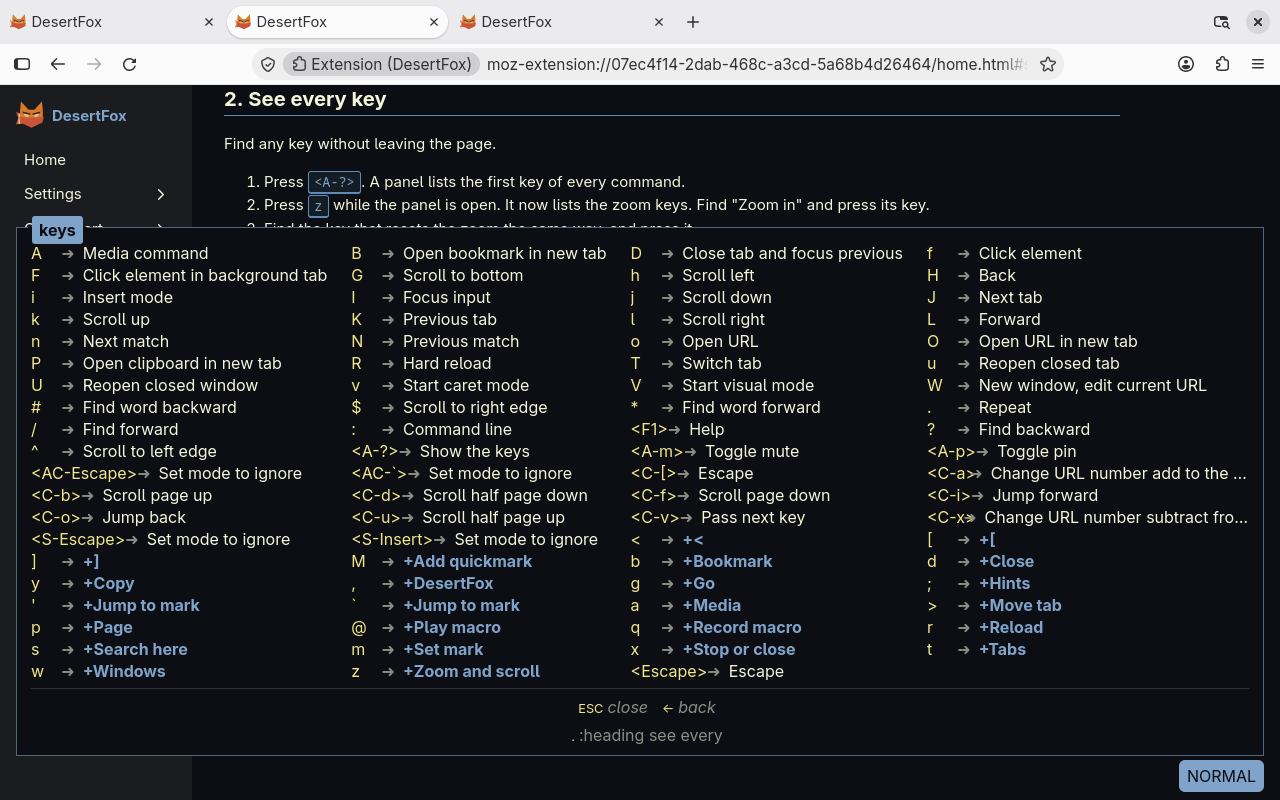
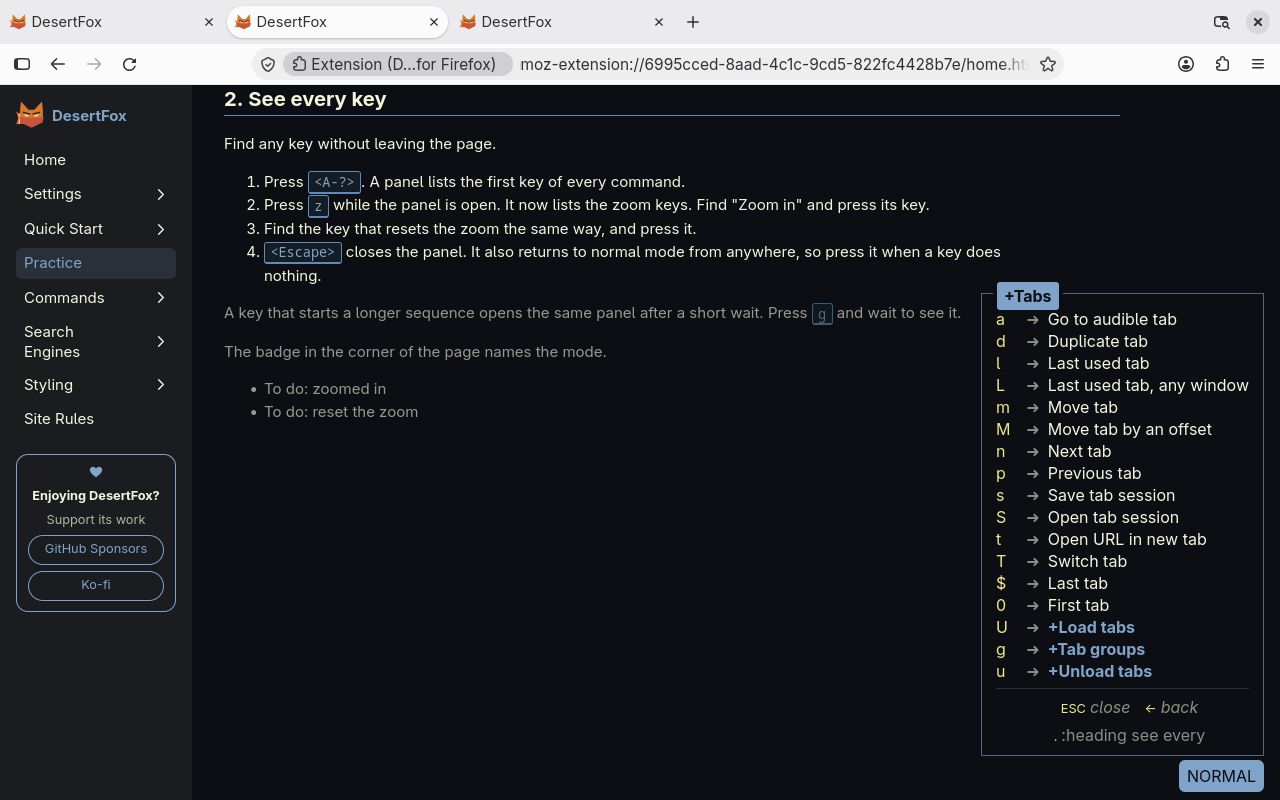
docs(demo): show the t panel in the which-key still, list drag.gif
The which-key still showed the full list from Alt+?, which is long and
hard to read in a README. It now shows the panel of the t prefix, the
tab actions with their keys. The film gains the t press and its panel
after the Alt+? scene, so demo.gif is a few seconds longer. The README
for the demo names drag.gif and its 2 MB cap.

diff --git a/test/key/README.md b/test/key/README.md
@@ -28,7 +28,7 @@ A full run takes about 34 s on 8 shards. It needs labwc, Hyprland, dbus-daemon a
 
 ## Demo
 
-`just readme-demo` runs `demo.mjs`: one key-test session that plays the seven shots in `demo_scenes.mjs` (shot 4 also drags a card across a board) with default settings and keys. Shot 1 is the new tab page, and the later shots run on the help Practice page in dark mode, with hint labels read at run time. The session floats the Firefox window to 1280x800, wf-recorder films that area and grim takes the stills. ffmpeg burns a corner overlay of the key presses into the film and makes `docs/images/demo.gif` from it, lowering the frame rate and then the width until the file is under 5 MB. The stills (hints, drag, which-key, command-line, theme-switch) land beside it, copied out only when the whole run worked. Set `DEMO_OUT_DIR` to write elsewhere. It needs wf-recorder, ffmpeg and grim, and it is not a piece of the key test run.
+`just readme-demo` runs `demo.mjs`: one key-test session that plays the seven shots in `demo_scenes.mjs` (shot 4 also drags a card across a board) with default settings and keys. Shot 1 is the new tab page, and the later shots run on the help Practice page in dark mode, with hint labels read at run time. The session floats the Firefox window to 1280x800, wf-recorder films that area and grim takes the stills. ffmpeg burns a corner overlay of the key presses into the film and makes `docs/images/demo.gif` from it, lowering the frame rate and then the width until the file is under 5 MB. It also cuts the two-move board scene into `docs/images/drag.gif`, with the same settings and a 2 MB cap. The stills (hints, drag, which-key, command-line, theme-switch) land beside it, copied out only when the whole run worked. Set `DEMO_OUT_DIR` to write elsewhere. It needs wf-recorder, ffmpeg and grim, and it is not a piece of the key test run.
 
 ## Stall capture
 
